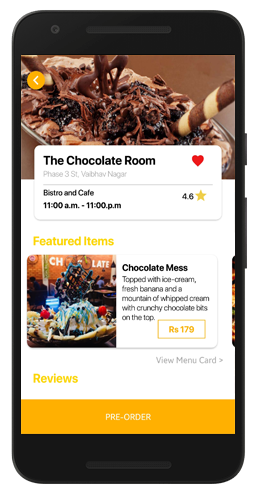
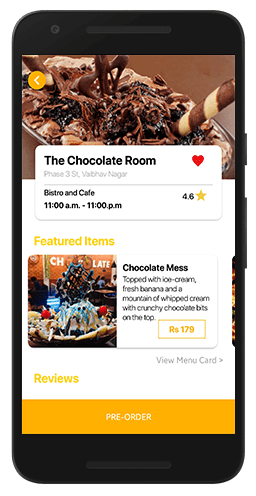
abbiocco updated imgs

diff --git a/success-stories/abbiocco.html b/success-stories/abbiocco.html
@@ -101,7 +101,7 @@
 
     <section id="features">
         <div class="features-inner">
-            <div class="features-image"><img src="../img/abbiocco/phone1.gif" /></div>
+            <div class="features-image"><img src="../img/abbiocco/phone.png" /></div>
             <ul class="features-list list-1">
                 <li class="features-item" data-src="../img/abbiocco/phone1.png"><br>
                     <h3 class="features-item-header" style="color:#ffb000;">Feature 1</h3>
